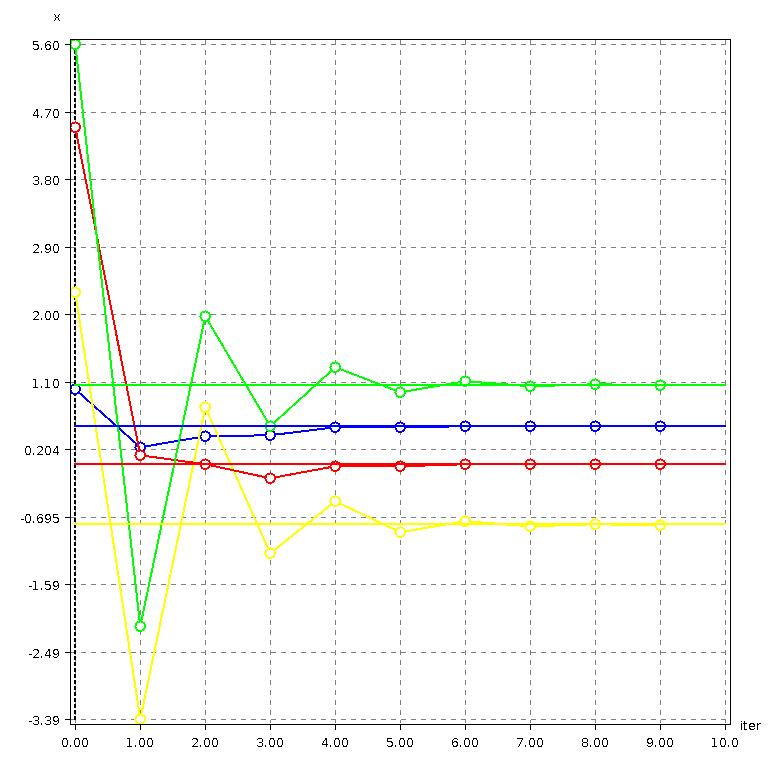
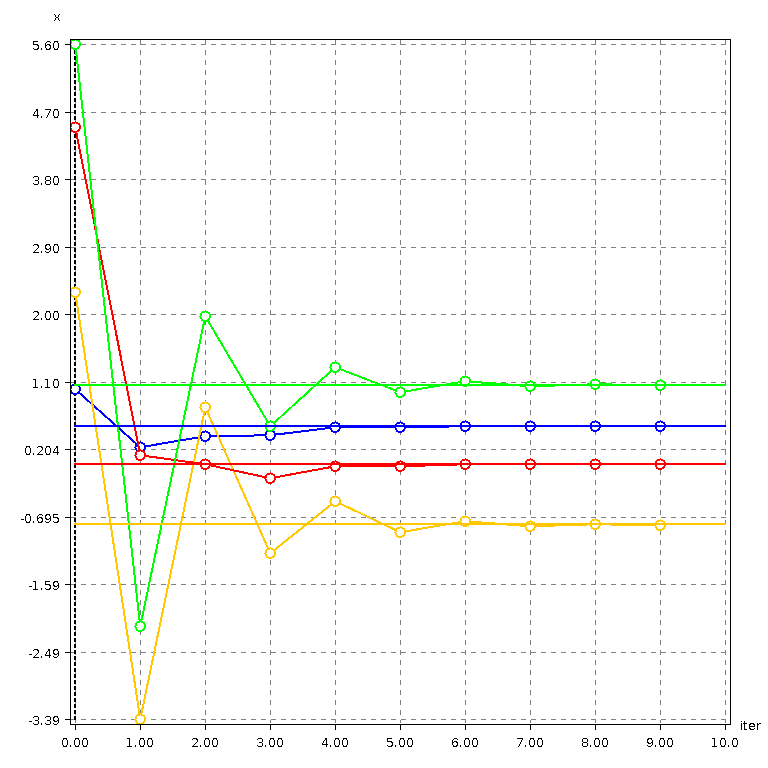
plotter

diff --git a/task61/src/main/java/mathe3/Task61.java b/task61/src/main/java/mathe3/Task61.java
@@ -24,8 +24,26 @@ public class Task61 {
             2111/4183., -3344/4183., 10/4183., 4442/4183.
     }; // actual solution
 
+
+    private static final double[][] startSamples = {
+            {1.0, 2.3, 4.5, 5.6},
+            {25, 25, 25, 25},
+            {0, 0, 0, 0},
+    } ;
+
     public static void main(String[] args) {
-        List<List<Double>> vectorIterations = computeVectors(new double[]{1.0, 2.3, 4.5, 5.6}, 9);
+
+        for (int i = 0; i < startSamples.length; i++) {
+            for (int j = 0; j < 4; j++) {
+                List<List<Double>> vectorIterations = computeVectors(
+                        startSamples[i], 9);
+                plot(vectorIterations, j).save("iter"+i+"x"+j);
+            }
+
+        }
+    }
+
+    private static Plotter plot(List<List<Double>> vectorIterations, int i) {
         List<List<Point>> xIterations = IntStream.range(0, vectorIterations.get(0).size())
                 .mapToObj(x -> IntStream.range(0, vectorIterations.size())
                         .mapToObj(iteration -> new Point(iteration, vectorIterations.get(iteration).get(x)))
@@ -33,20 +51,20 @@ public class Task61 {
                 ).collect(Collectors.toList());
 
         int maxX = vectorIterations.size();
-        double maxY = vectorIterations.stream().flatMap(List::stream)
-                .max(Double::compareTo).get();
-        double minY = vectorIterations.stream().flatMap(List::stream)
-                .min(Double::compareTo).get();
-        new Plotter(new double[]{0, maxX, minY, maxY}, maxX * 50000, 0.001)
+//        double maxY = vectorIterations.stream().flatMap(List::stream)
+//                .max(Double::compareTo).get();
+//        double minY = vectorIterations.stream().flatMap(List::stream)
+//                .min(Double::compareTo).get();
+        Plotter plot = new Plotter(new double[]{0, maxX, -1.25, 1.25}, maxX * 50000, 0.001)
                 .points(xIterations.get(0), Color.BLUE)
-                .points(xIterations.get(1), Color.YELLOW)
+                .points(xIterations.get(1), Color.ORANGE)
                 .points(xIterations.get(2), Color.RED)
                 .points(xIterations.get(3), Color.GREEN)
                 .function(x -> actualX[0], Color.BLUE)
-                .function(x -> actualX[1], Color.YELLOW)
+                .function(x -> actualX[1], Color.ORANGE)
                 .function(x -> actualX[2], Color.RED)
-                .function(x -> actualX[3], Color.GREEN)
-                .save();
+                .function(x -> actualX[3], Color.GREEN);
+        return plot;
     }
 
     private static List<List<Double>> computeVectors(double[] startVector, int total_vectors) {

diff --git a/task61/src/main/java/mathe3/Plotter.java b/task61/src/main/java/mathe3/Plotter.java
@@ -117,9 +117,9 @@ public class Plotter {
         return this;
     }
 
-    public void save() {
+    public void save(String name) {
         try {
-            plot.save("result", "png");
+            plot.save(name, "png");
         } catch (IOException e) {
             throw new IllegalStateException("Unable to save file");
         }
